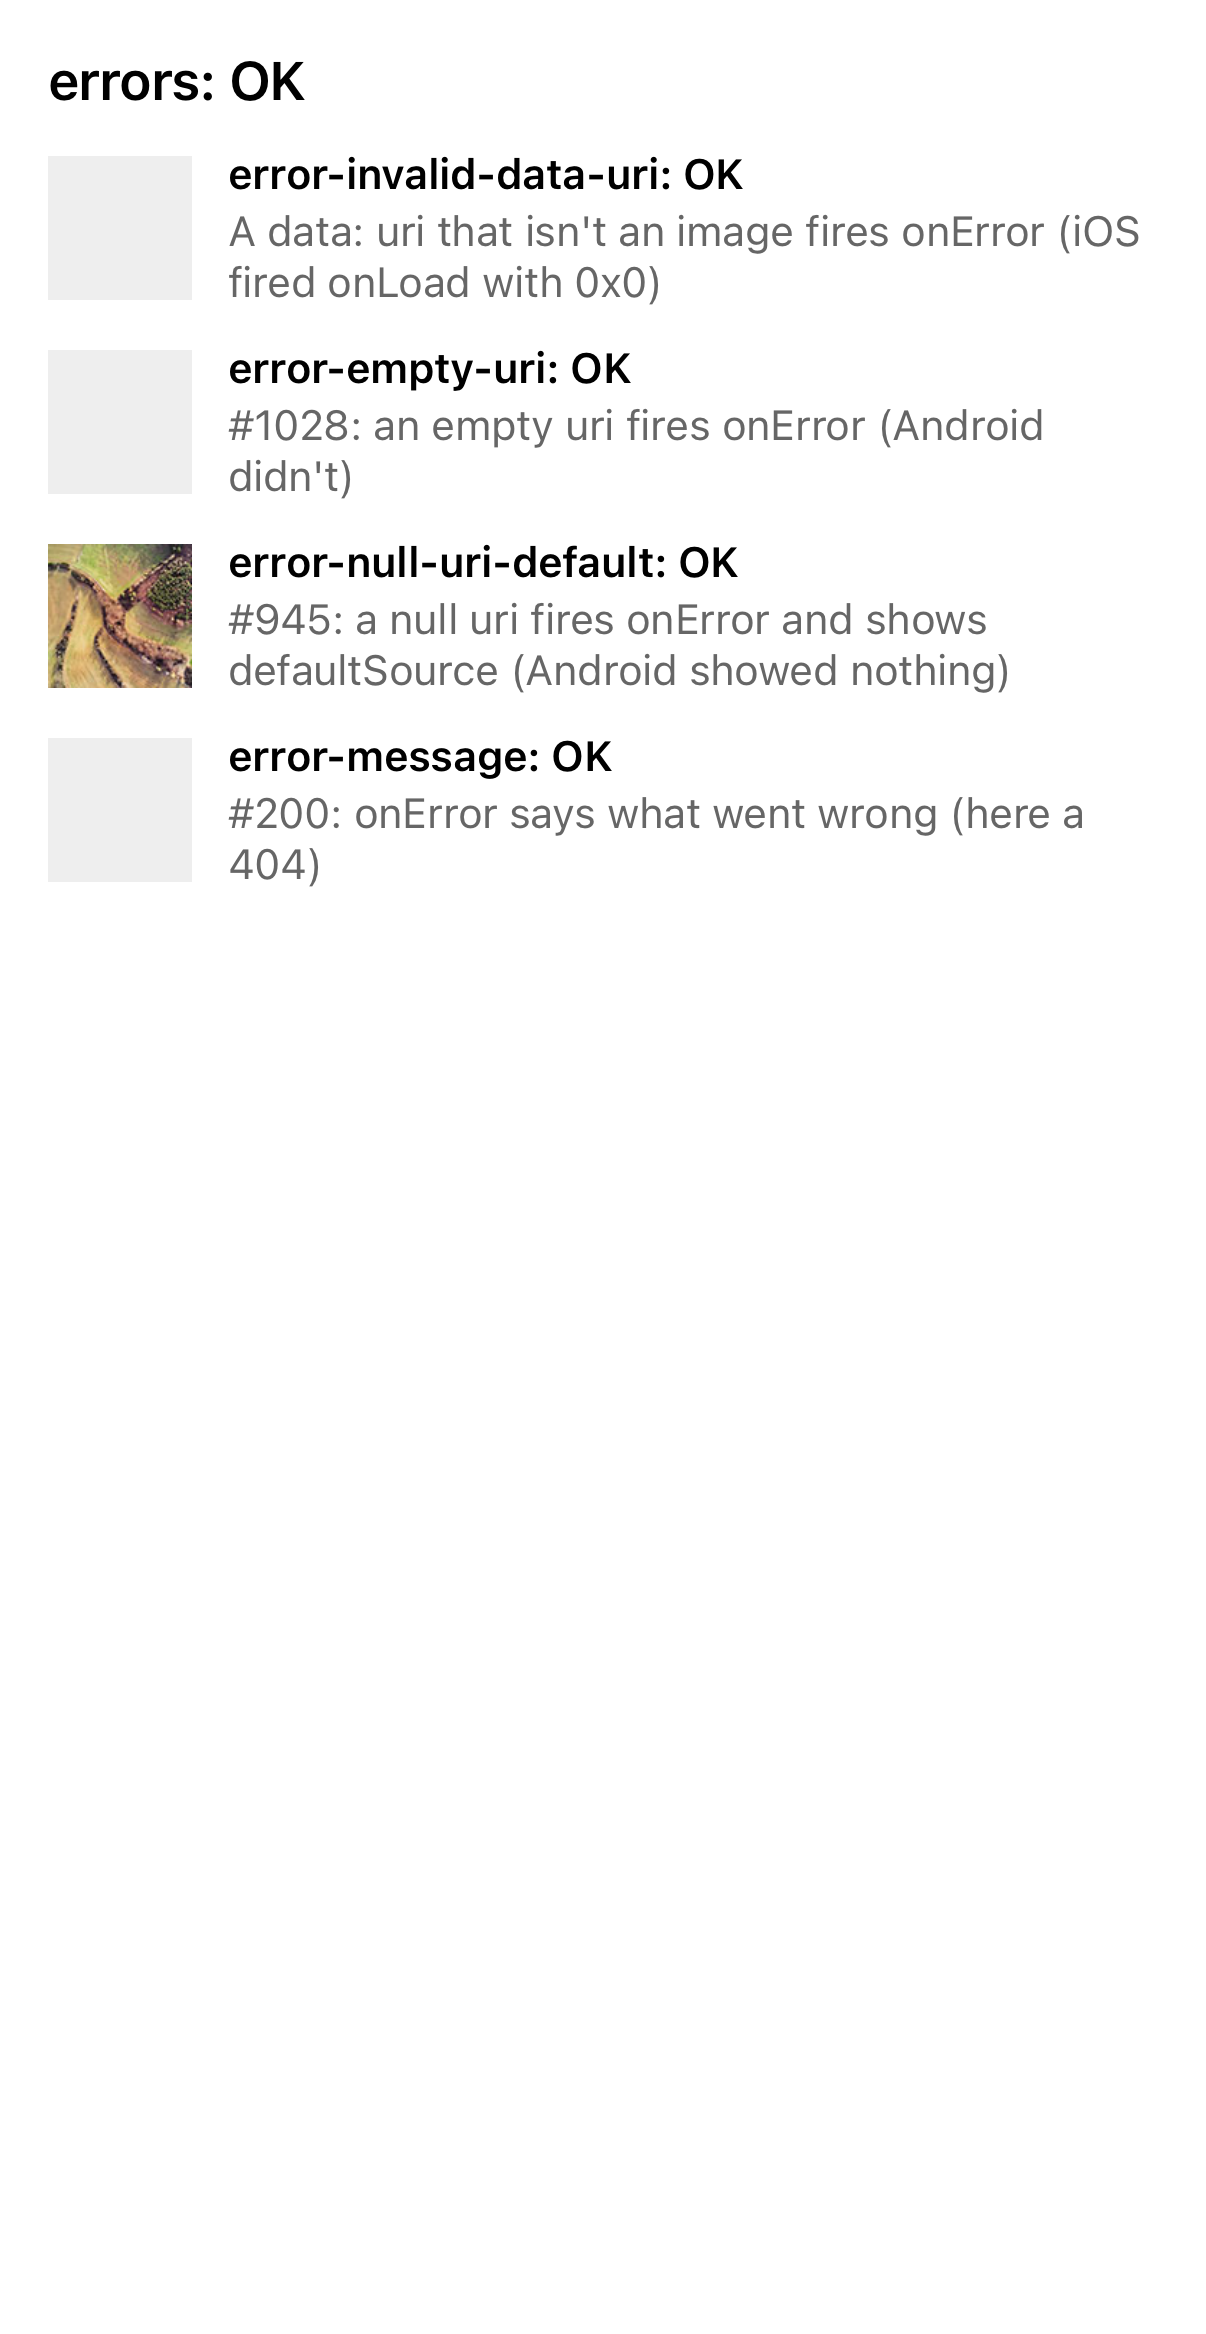
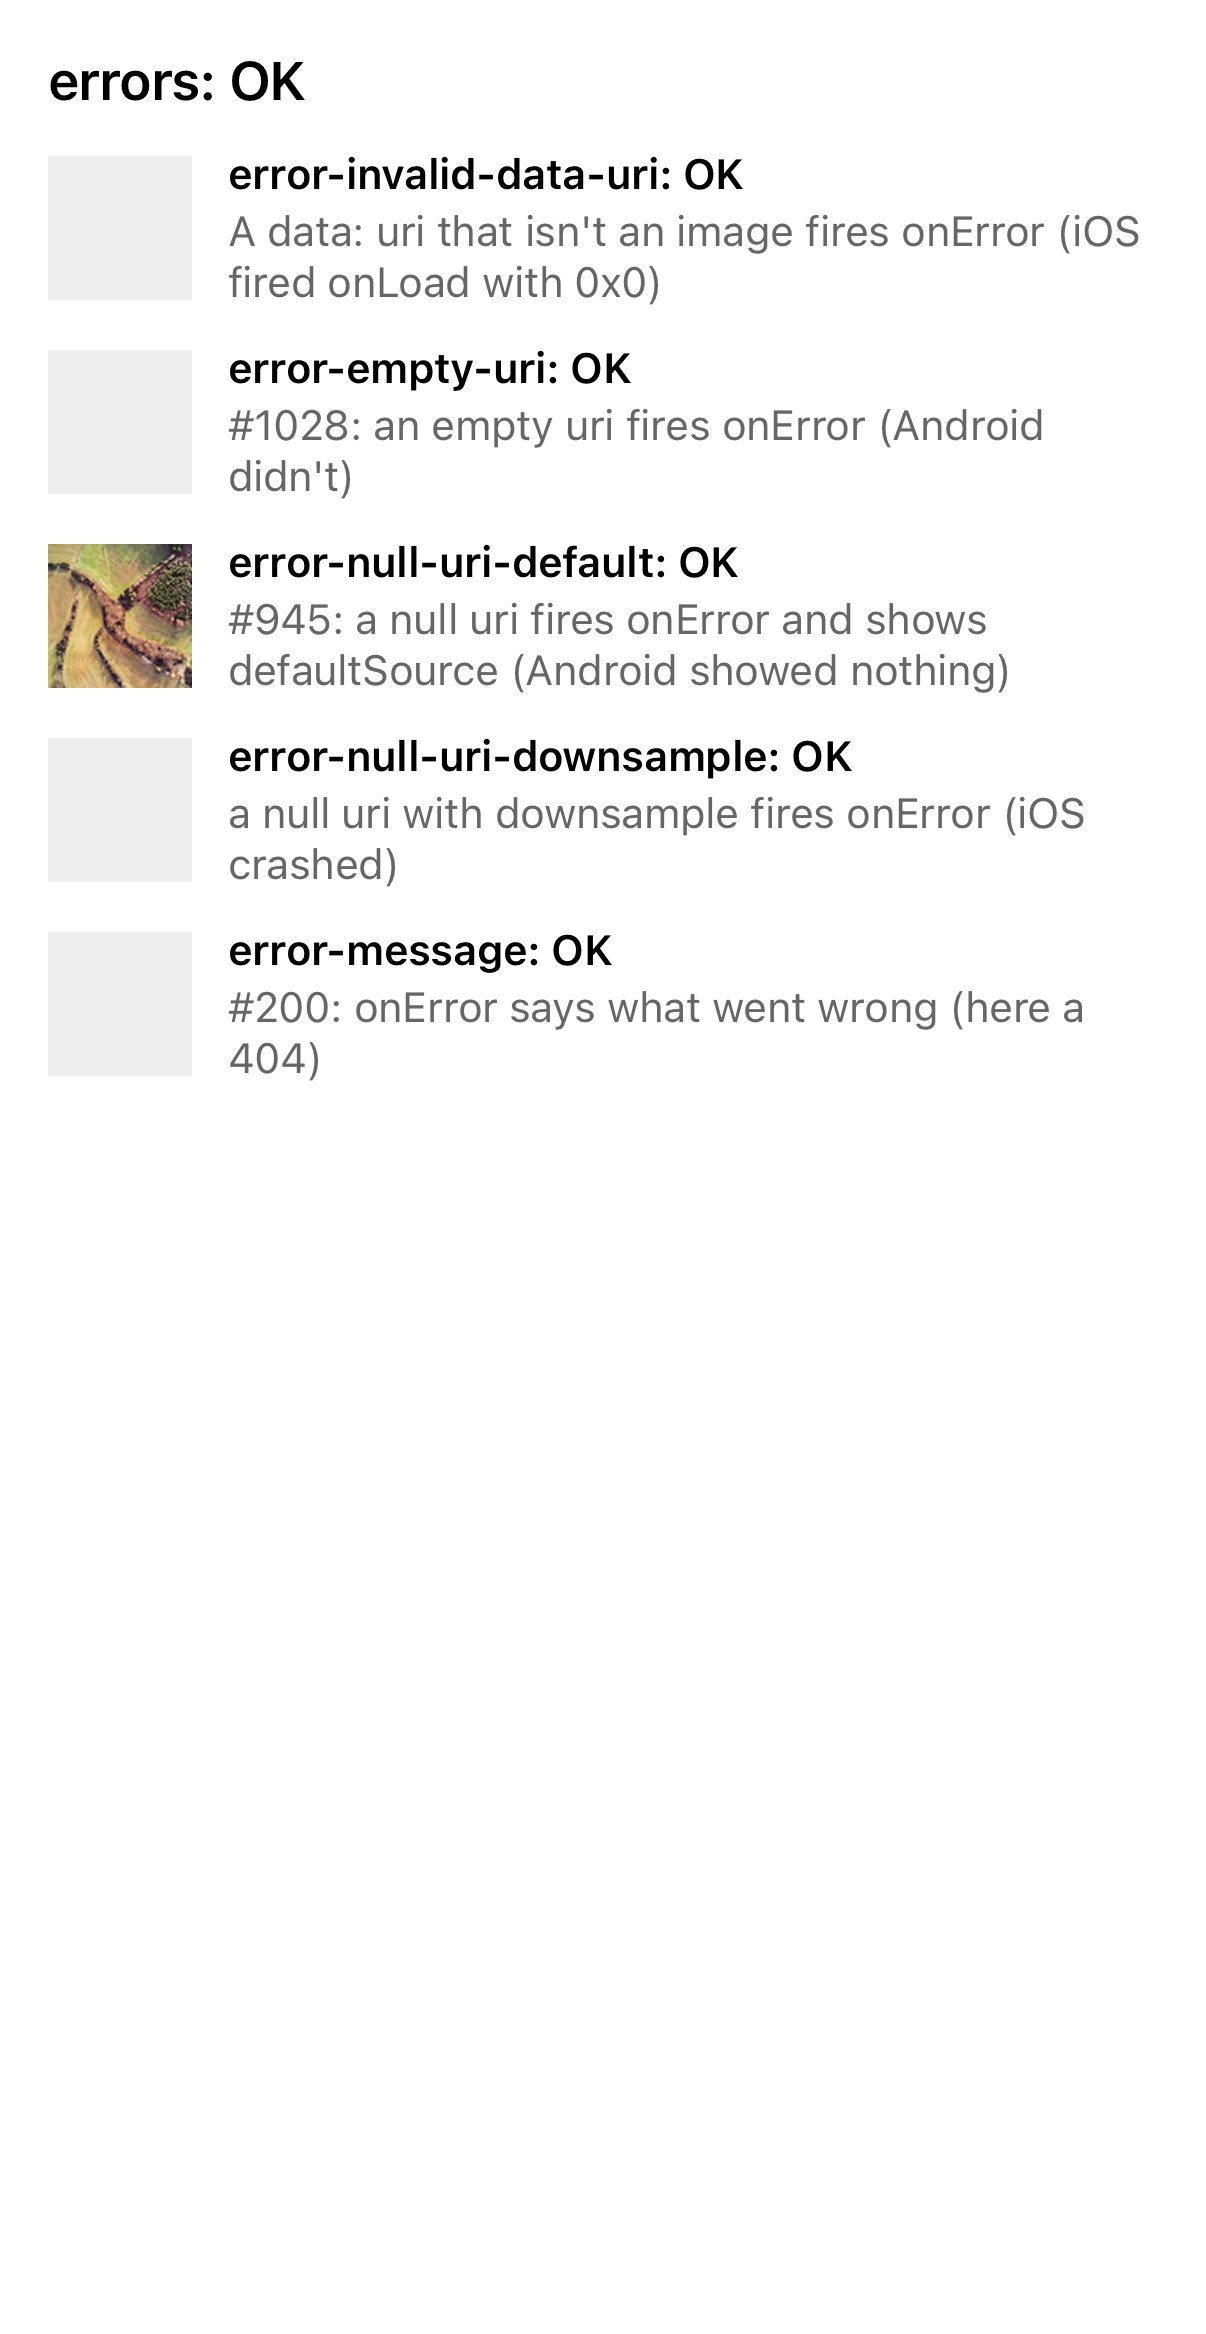
fix(ios): don't crash on a source without a url when downsampling

Changed region(s): [[0.1841, 0.3085, 0.8897, 0.4627]]

diff --git a/ReactNativeFastImageExample/src/RegressionExample.tsx b/ReactNativeFastImageExample/src/RegressionExample.tsx
@@ -3990,6 +3990,14 @@ export const REGRESSION_GROUPS: RegressionGroup[] = [
                 source={{ uri: null as unknown as string }}
                 defaultSource={DEFAULT}
             />,
+            <EventCase
+                key="error-null-uri-downsample"
+                id="error-null-uri-downsample"
+                description="a null uri with downsample fires onError (iOS crashed)"
+                event="onError"
+                source={{ uri: null as unknown as string }}
+                downsample
+            />,
             <ErrorMessageCase key="error-message" />,
         ],
     },

diff --git a/ios/FastImage/FFFDownsampledImage.m b/ios/FastImage/FFFDownsampledImage.m
@@ -91,8 +91,9 @@ static CGSize FFFPixelSize(NSData* data) {
     // fill it, stretched). With its own url, a downsampled load only shares
     // downloads with other downsampled ones. Not a photo library url, which
     // isn't downloaded, and whose loader reads everything after ph:// as the
-    // photo's identifier.
-    if ([url.scheme isEqualToString: @"ph"]) {
+    // photo's identifier. No url (a source whose uri isn't one), which fails
+    // as it does without downsample (NSURLComponents throws for nil).
+    if (!url || [url.scheme isEqualToString: @"ph"]) {
         return url;
     }
     NSURLComponents* components = [NSURLComponents componentsWithURL: url resolvingAgainstBaseURL: NO];
